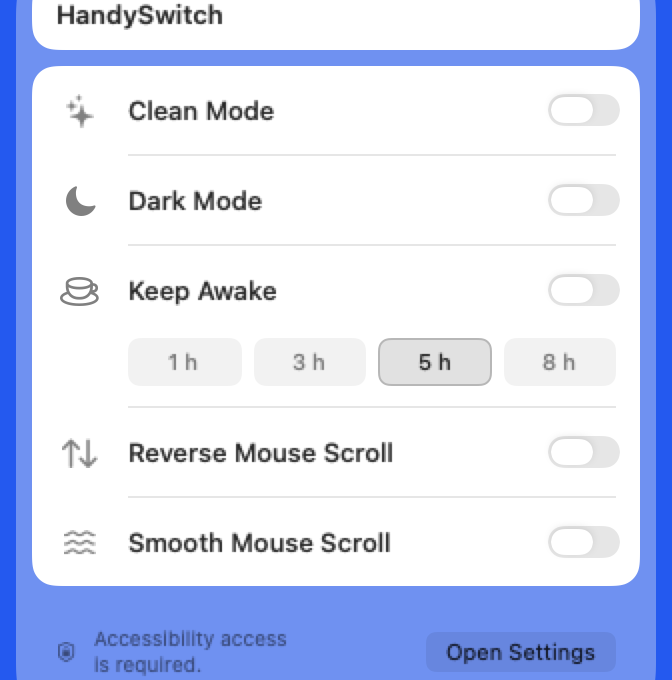
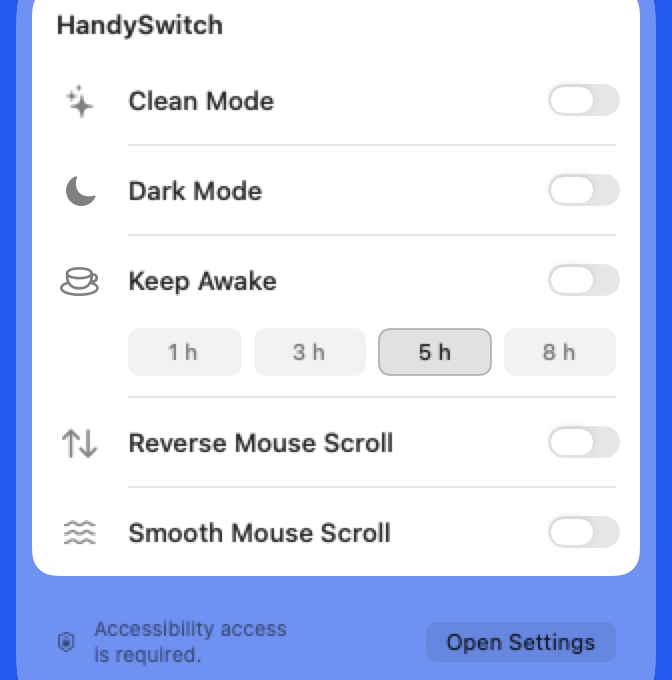
Unify panel chrome and fix Automation guidance.
Keep title and switches on one card; stop sending users to Settings before the System Events prompt creates the HandySwitch entry.

diff --git a/HandySwitch/Panel/TogglePanelView.swift b/HandySwitch/Panel/TogglePanelView.swift
@@ -13,15 +13,15 @@ struct TogglePanelView: View {
 
     var body: some View {
         VStack(spacing: 8) {
-            HStack {
-                Text("HandySwitch").font(.system(size: 13, weight: .semibold))
-                Spacer(minLength: 0)
-            }
-            .padding(.horizontal, 12)
-            .padding(.vertical, 10)
-            .background(cardFill, in: RoundedRectangle(cornerRadius: Self.cardCornerRadius))
-
             VStack(spacing: 0) {
+                HStack {
+                    Text("HandySwitch").font(.system(size: 13, weight: .semibold))
+                    Spacer(minLength: 0)
+                }
+                .padding(.horizontal, 12)
+                .padding(.top, 10)
+                .padding(.bottom, 8)
+
                 row("panel.cleanMode", icon: "sparkles", isOn: Binding(
                     get: { model.isCleanModeActive }, set: { model.setCleanModeActive($0) }))
                 separator
@@ -48,12 +48,21 @@ struct TogglePanelView: View {
             }
 
             if model.needsAutomationHelp {
-                helpBanner(
-                    icon: "gearshape.2",
-                    message: "panel.automationNeeded",
-                    actionTitle: "panel.openAutomation",
-                    action: AutomationPermission.openSystemSettings
-                )
+                if model.automationAccessDenied {
+                    helpBanner(
+                        icon: "gearshape.2",
+                        message: "panel.automationDenied",
+                        actionTitle: "panel.openAutomation",
+                        action: AutomationPermission.openSystemSettings
+                    )
+                } else {
+                    helpBanner(
+                        icon: "gearshape.2",
+                        message: "panel.automationNeeded",
+                        actionTitle: "panel.retryAutomation",
+                        action: { model.retryAutomationAccess() }
+                    )
+                }
             }
         }
         .padding(8)

diff --git a/HandySwitch/Services/DarkModeService.swift b/HandySwitch/Services/DarkModeService.swift
@@ -12,6 +12,8 @@ final class DarkModeService {
 
     private(set) var isDarkMode = false
     private(set) var needsAutomationHelp = false
+    /// True only after the user refused System Events control — Settings then has an entry.
+    private(set) var automationAccessDenied = false
     var onStatusChange: (() -> Void)?
 
     /// 观察者令牌仅用于移除；deinit 可能离开 MainActor，故用 unsafe。
@@ -51,6 +53,7 @@ final class DarkModeService {
 
         if enabled == isDarkMode {
             needsAutomationHelp = false
+            automationAccessDenied = false
             return
         }
 
@@ -72,6 +75,7 @@ final class DarkModeService {
             guard AutomationPermission.isAllowed(status) else {
                 Self.logger.error("System Events 自动化未授权 status=\(status)")
                 self.needsAutomationHelp = true
+                self.automationAccessDenied = AutomationPermission.isDenied(status)
                 self.refreshFromSystem()
                 self.onStatusChange?()
                 return
@@ -81,14 +85,22 @@ final class DarkModeService {
                 try Self.runAppleScript(enabled ? Self.onScript : Self.offScript)
                 self.isDarkMode = enabled
                 self.needsAutomationHelp = false
+                self.automationAccessDenied = false
                 self.onStatusChange?()
             } catch {
                 Self.logger.error("切换系统深色模式失败：\(error.localizedDescription, privacy: .public)")
                 self.needsAutomationHelp = true
+                // Script failure after allow is rare; prefer retry over Settings.
+                self.automationAccessDenied = false
                 self.refreshFromSystem()
                 self.onStatusChange?()
             }
         }
+    }
+
+    /// Re-request System Events access and apply the intended appearance if allowed.
+    func retryAutomationAccess() {
+        setEnabled(!isDarkMode)
     }
 
     private static func readIsDark() -> Bool {

diff --git a/HandySwitch/Services/FeatureController.swift b/HandySwitch/Services/FeatureController.swift
@@ -22,6 +22,7 @@ final class FeatureController {
     private(set) var isSmoothMouseScrollEnabled = false
     private(set) var needsAccessibilityHelp = false
     private(set) var needsAutomationHelp = false
+    private(set) var automationAccessDenied = false
 
     private init() {
         preventSleep.onExpired = { [weak self] in
@@ -75,6 +76,11 @@ final class FeatureController {
 
     func setDarkModeEnabled(_ enabled: Bool) {
         darkMode.setEnabled(enabled)
+        syncDarkModeFromService()
+    }
+
+    func retryAutomationAccess() {
+        darkMode.retryAutomationAccess()
         syncDarkModeFromService()
     }
 
@@ -146,6 +152,7 @@ final class FeatureController {
     private func syncDarkModeFromService() {
         isDarkModeEnabled = darkMode.isDarkMode
         needsAutomationHelp = darkMode.needsAutomationHelp
+        automationAccessDenied = darkMode.automationAccessDenied
     }
 
     private func applyMouseScrollFromPreferences() {

diff --git a/docs/PRODUCT_CONTRACT.md b/docs/PRODUCT_CONTRACT.md
@@ -20,8 +20,8 @@
 
 ## 浮层样式（已锁）
 
-- **外层玻璃 / 内层实底（2026-09-10）**：整窗外框是贴菜单栏的玻璃功能层；标题「HandySwitch」与开关列表都必须落在同一套**圆角矩形实底**卡片上（系统 `windowBackgroundColor`），禁止标题字直接压在玻璃上。
-- 内卡片圆角与窗外框同心：外圆角 20、内边距 8 → 内卡片圆角 12。标题卡与开关卡之间保留窄缝，露出外层玻璃。
+- **外层玻璃 / 内层一整块实底（2026-09-10）**：整窗外框是贴菜单栏的玻璃功能层；标题「HandySwitch」与开关列表落在**同一块**圆角矩形实底上（系统 `windowBackgroundColor`），禁止标题字直接压在玻璃上，也**禁止**拆成标题卡 + 开关卡两块（用户否决分块后的缝隙观感）。
+- 内卡片圆角与窗外框同心：外圆角 20、内边距 8 → 内卡片圆角 12。
 - 没打磨完的半成品禁止进浮层。
 
 ## 左右键分工
@@ -60,7 +60,7 @@
 - **开**：系统外观为深色；**关**：系统外观为浅色。若用户原先是「自动」，拨动本开关会退出自动、落到明确的深色或浅色（与系统设置 / 控制中心行为一致）。
 - **镜像系统**：开关反映系统当前外观；在系统设置或控制中心改外观时，浮层打开时应同步。**不要**把深色状态写进本应用偏好并在启动时强行重放——会与系统「自动」和外部分切换打架。
 - **权限与实现**：经 System Events 切换外观；加固运行时 / Apple Events /「自动化列表没有本应用」→ 全局 [macos-system-permissions.md](/Users/geraltgraham/Codes/_standards/workspace-docs/swift-docs/macos-system-permissions.md)。异步拨回须代际作废 → [MACOS_ASYNC_UI_STATE_GUIDE.md](~/.config/agentsync/docs/MACOS_ASYNC_UI_STATE_GUIDE.md)。
-- 缺自动化权限时：开关打不开（或拨动后回弹），并说明「先等系统弹窗 / 列表为空时再拨一次」，提供跳到系统设置 › 隐私与安全性 › 自动化。
+- 缺自动化权限时：开关打不开（或拨动后回弹）。**未弹过系统授权窗时，自动化列表本来就不会有 HandySwitch**——禁止把用户空指到设置里找；应引导再拨深色模式并点允许，列表项只在弹过窗之后才出现。仅当用户已拒绝后，才提供跳到系统设置 › 隐私与安全性 › 自动化。
 - **禁止**用私有 SkyLight 外观 API 当主路径（易碎、难公证）；**禁止**做成 Night Shift / 色温开关却仍叫深色模式。
 
 ### 3. Prevent Sleep（防止睡眠 / Keep Awake）
